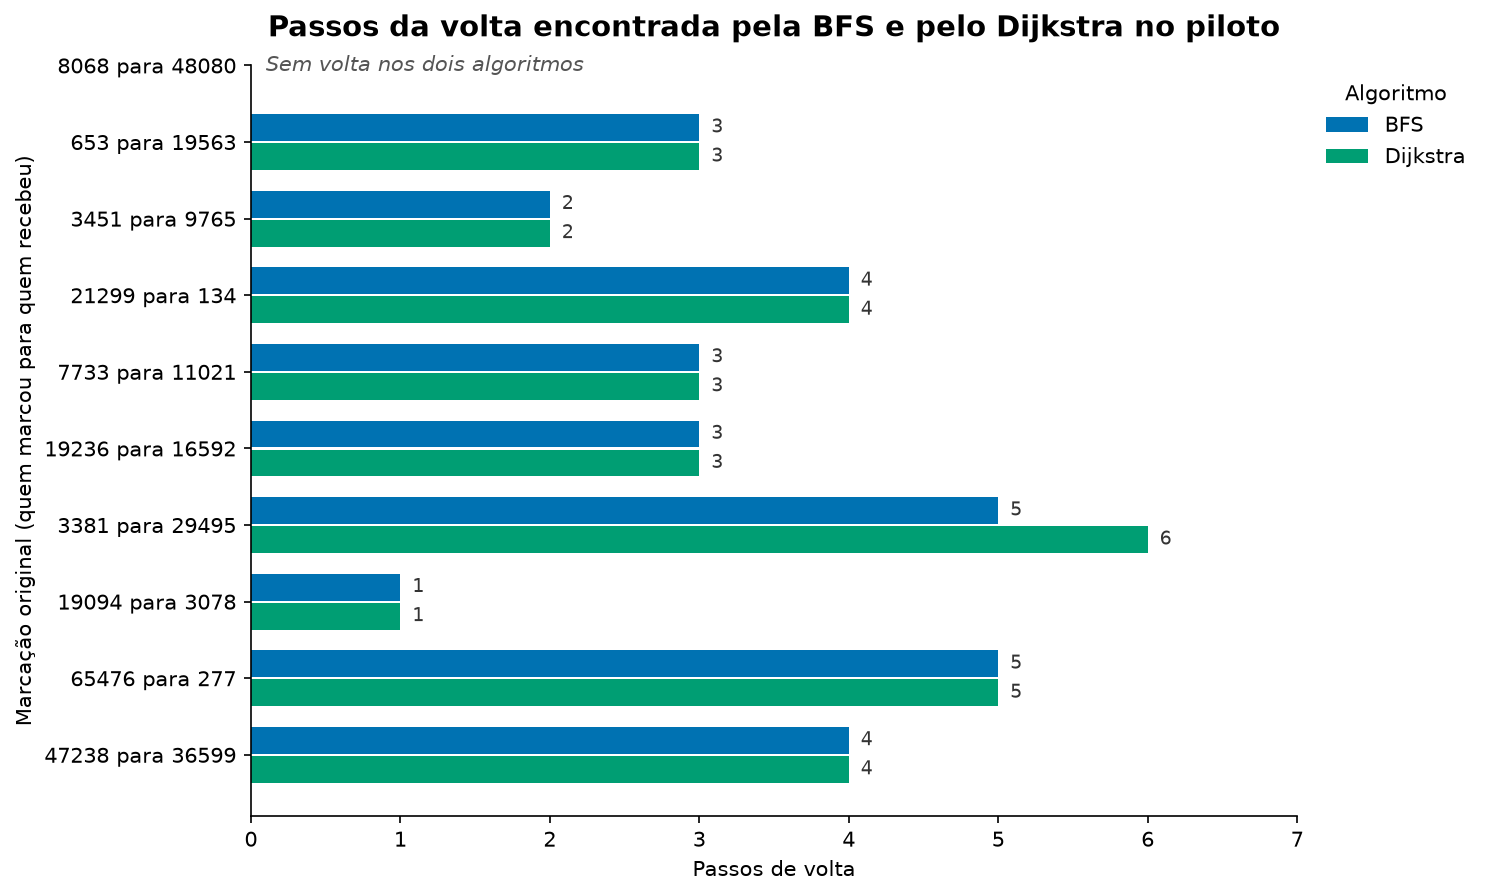
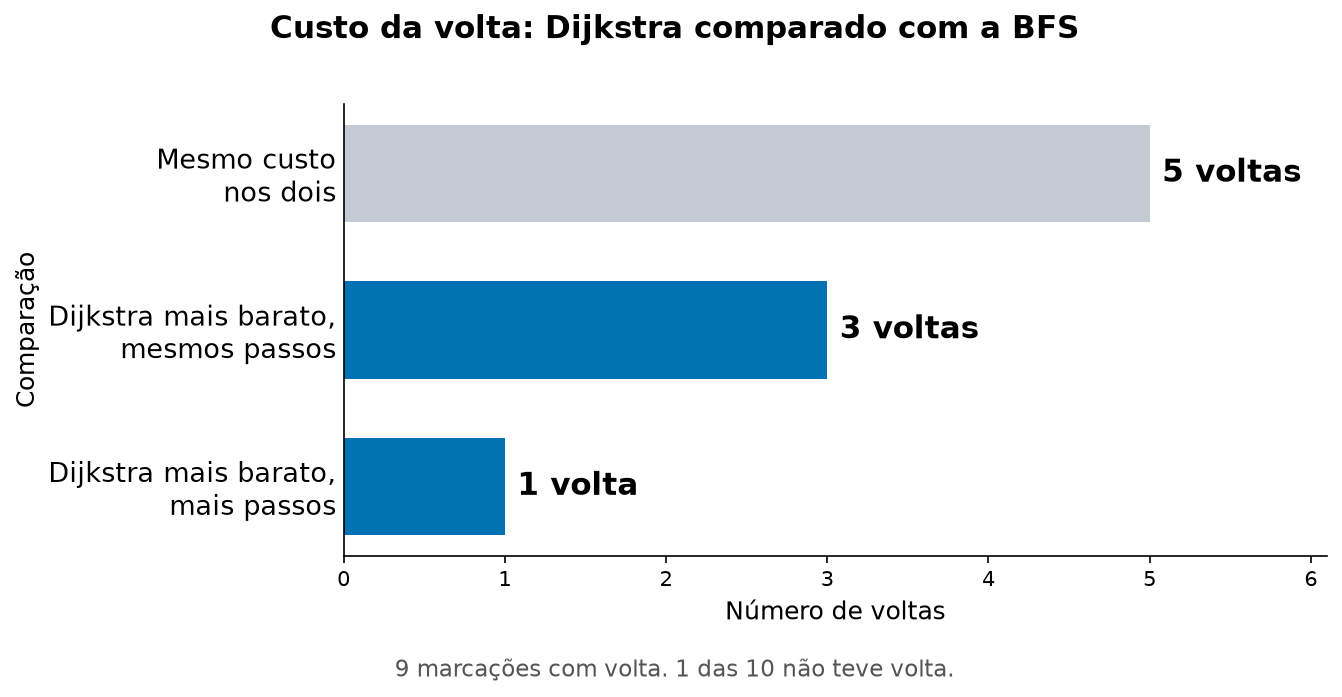
fix(parte2): gráfico da volta compara o custo do Dijkstra com a BFS

diff --git a/web/app.js b/web/app.js
@@ -414,9 +414,9 @@ const FOTOS = [
   { f: "parte2/alg_profundidade_buscas.png", titulo: "Profundidade das buscas", grupo: "alg", origem: "Notebook 02 · seção 12.2",
     mostra: "Cada par compara a maior distância mínima da BFS com o ramo mais profundo da DFS, para a mesma origem e o mesmo recorte. Os dois máximos podem ser de usuários diferentes.",
     insight: "Nos nove casos, a BFS ficou entre 1 e 10 passos, enquanto a DFS chegou a 6.636. Por isso a BFS mede a menor volta. Na seção 6.2, ela encontrou 2 passos para o mesmo destino que a DFS alcançou em 775." },
-  { f: "parte2/alg_passos_volta_piloto.png", titulo: "Passos de volta do piloto", grupo: "alg", origem: "Notebook 02 · seção 12.3",
-    mostra: "Cada par de barras compara os passos de volta da BFS e do Dijkstra para uma marcação. A de 8068 para 48080 aparece sem barra porque nenhum dos dois encontrou volta.",
-    insight: "Das nove marcações com volta, oito tiveram o mesmo número de passos, e só a de 3381 para 29495 passou de 5 na BFS para 6 no Dijkstra. Em três das oito, os caminhos passaram por usuários diferentes, como mostram as seções 6.1 e 7.1." },
+  { f: "parte2/alg_passos_volta_piloto.png", titulo: "Custo da volta no piloto", grupo: "alg", origem: "Notebook 02 · seção 12.3",
+    mostra: "Cada barra conta as voltas do piloto em que o Dijkstra teve o mesmo custo da BFS, um custo menor com os mesmos passos ou um custo menor com mais passos.",
+    insight: "Das nove voltas, cinco tiveram o mesmo custo, três ficaram mais baratas com os mesmos passos e a de 29495 até 3381 caiu de 7 para 6 com um passo a mais." },
   { f: "parte1/percurso_m03.png", titulo: "Percurso no mapa M03", grupo: "p1", origem: "Parte 1 · gerada pelo src/solve.py" },
   { f: "parte1/percurso_m08.png", titulo: "Percurso no mapa M08", grupo: "p1", origem: "Parte 1 · gerada pelo src/solve.py" },
   { f: "parte1/heatmap_multiplicidade_m08.png", titulo: "Multiplicidade de estados (M08)", grupo: "p1", origem: "Parte 1 · gerada pelo src/solve.py" },
